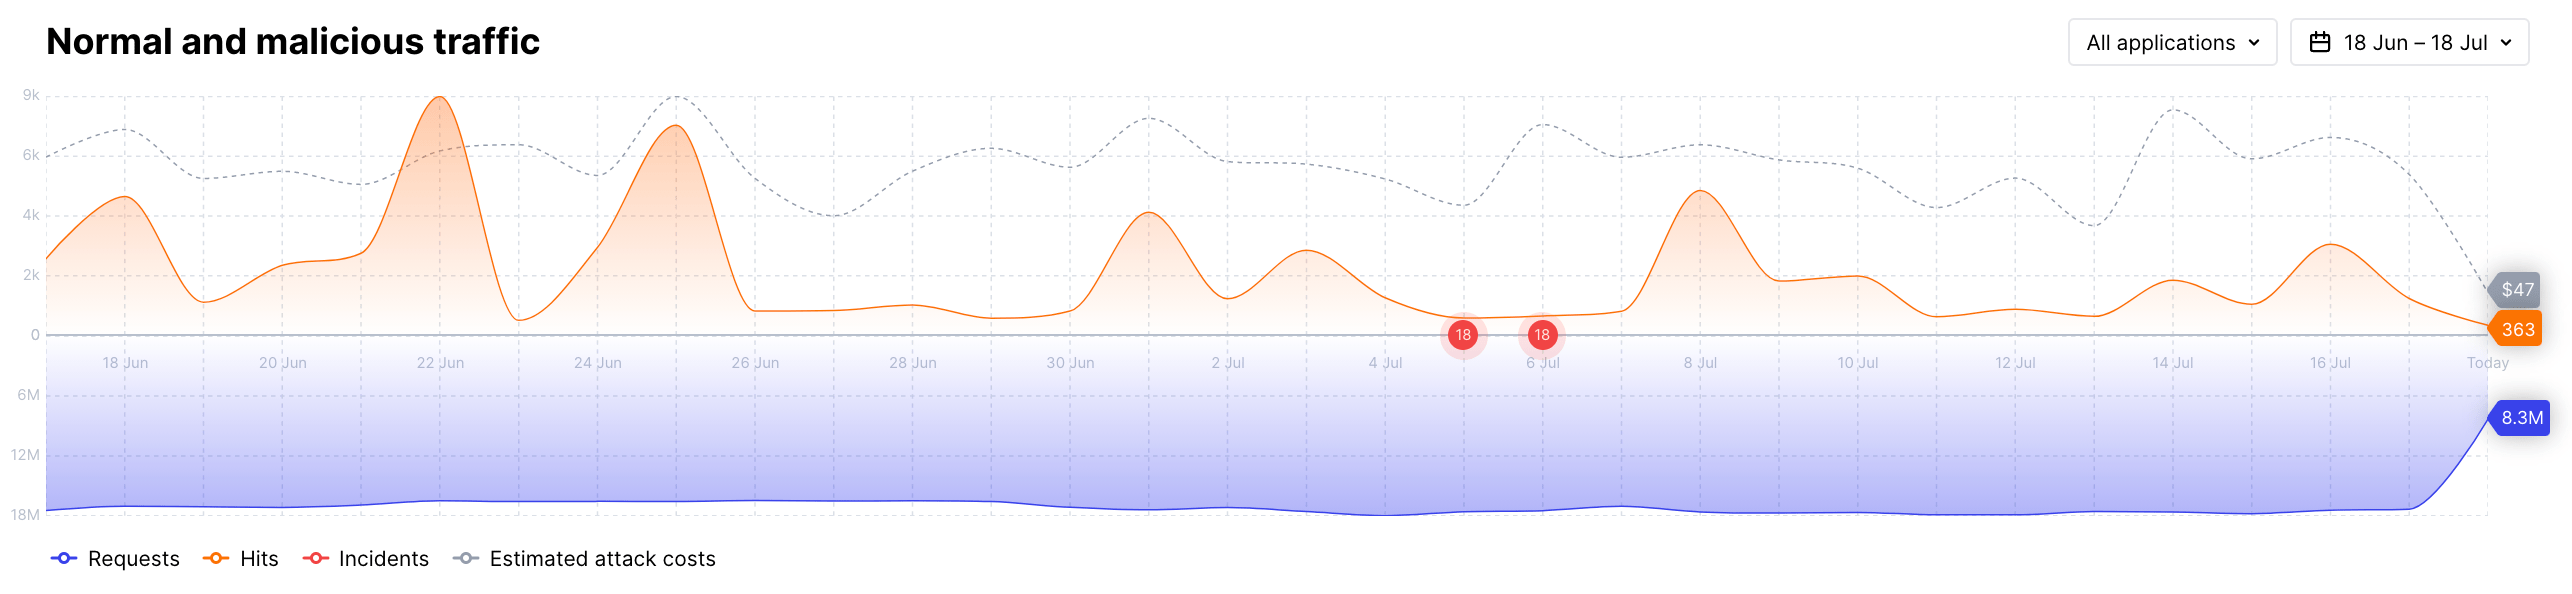
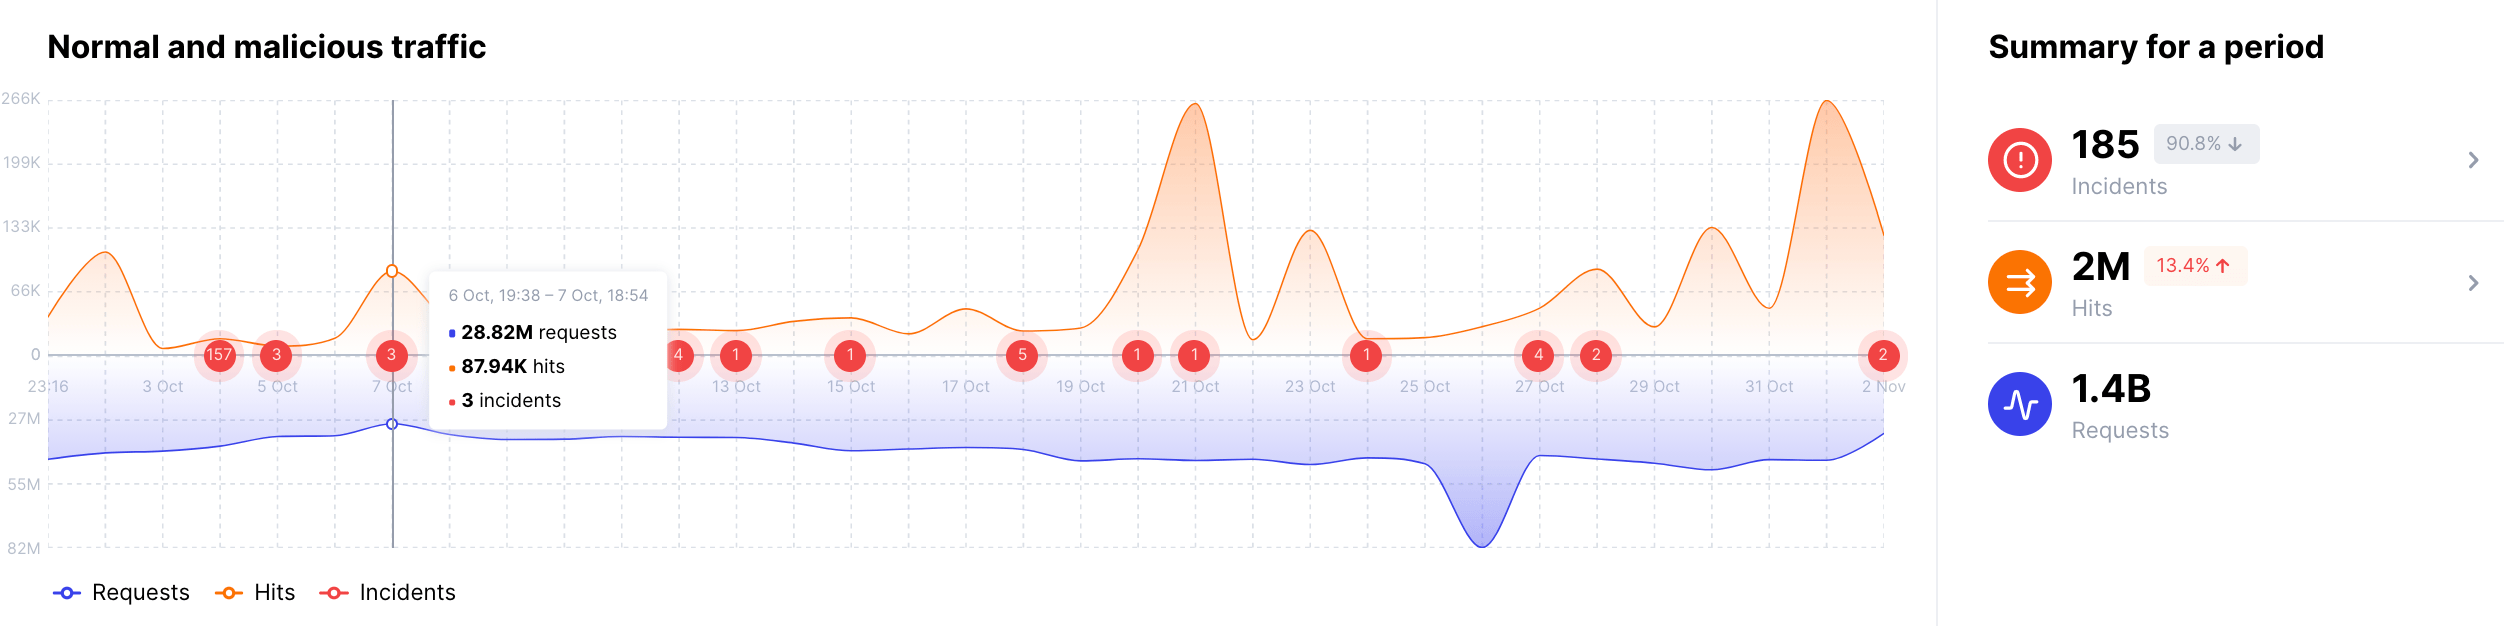
DOCS-1816 mention the new dashboard with traffic

diff --git a/docs/latest/user-guides/dashboard.md b/docs/latest/user-guides/dashboard.md
@@ -34,13 +34,13 @@ The widget displays the following data:
 
 ![!Current month statistics](../images/user-guides/dashboard/current-month-stats.png)
 
-## Normal and malicious traffic
+## Normal and malicious traffic for a period
 
-The widget displays the following data:
+The widget displays the summary for the primary metrics of the traffic processed during the selected period (the last month by default):
 
 * The amount of traffic
 * The number of requests, [hits](../glossary-en.md#hit), and [incidents](../glossary-en.md#security-incident)
-* The estimated cost of attacks for the attacker: the value considers the approximate cost of IP address renting and an attack duration
+* Trends: change in the event number for a selected period and the same previous period
 
 ![!Normal and malicious traffic](../images/user-guides/dashboard/traffic-stats.png)
 
